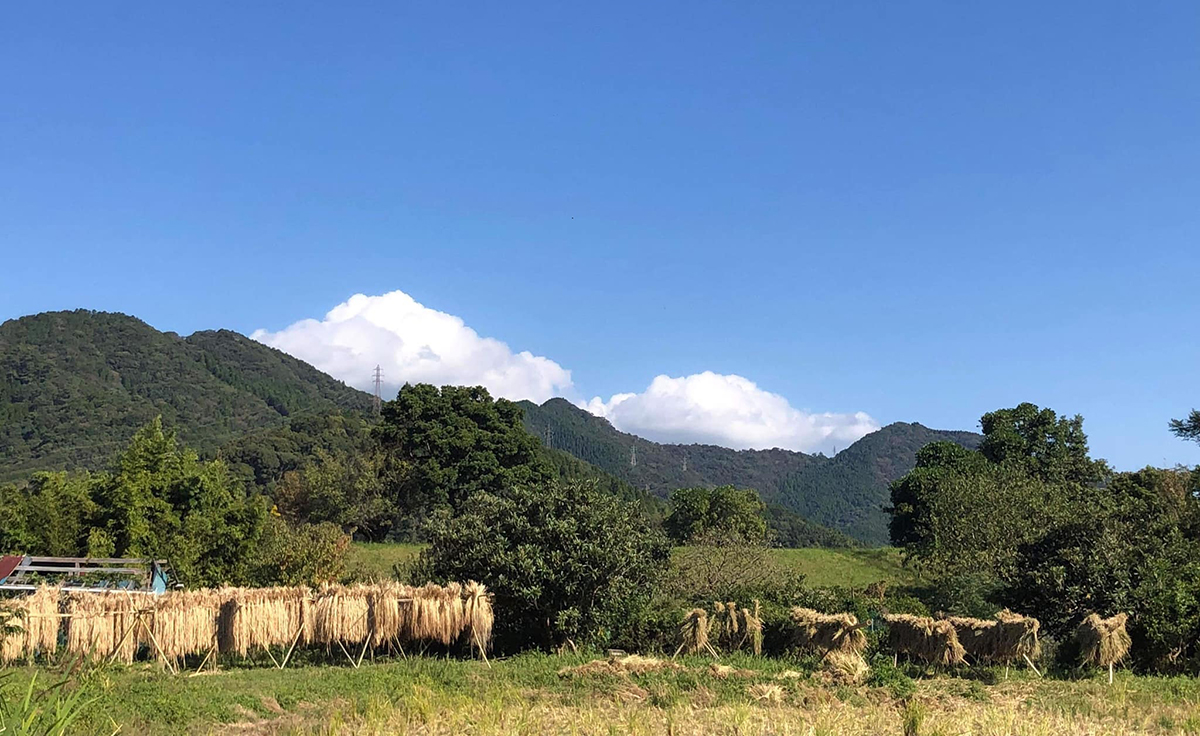
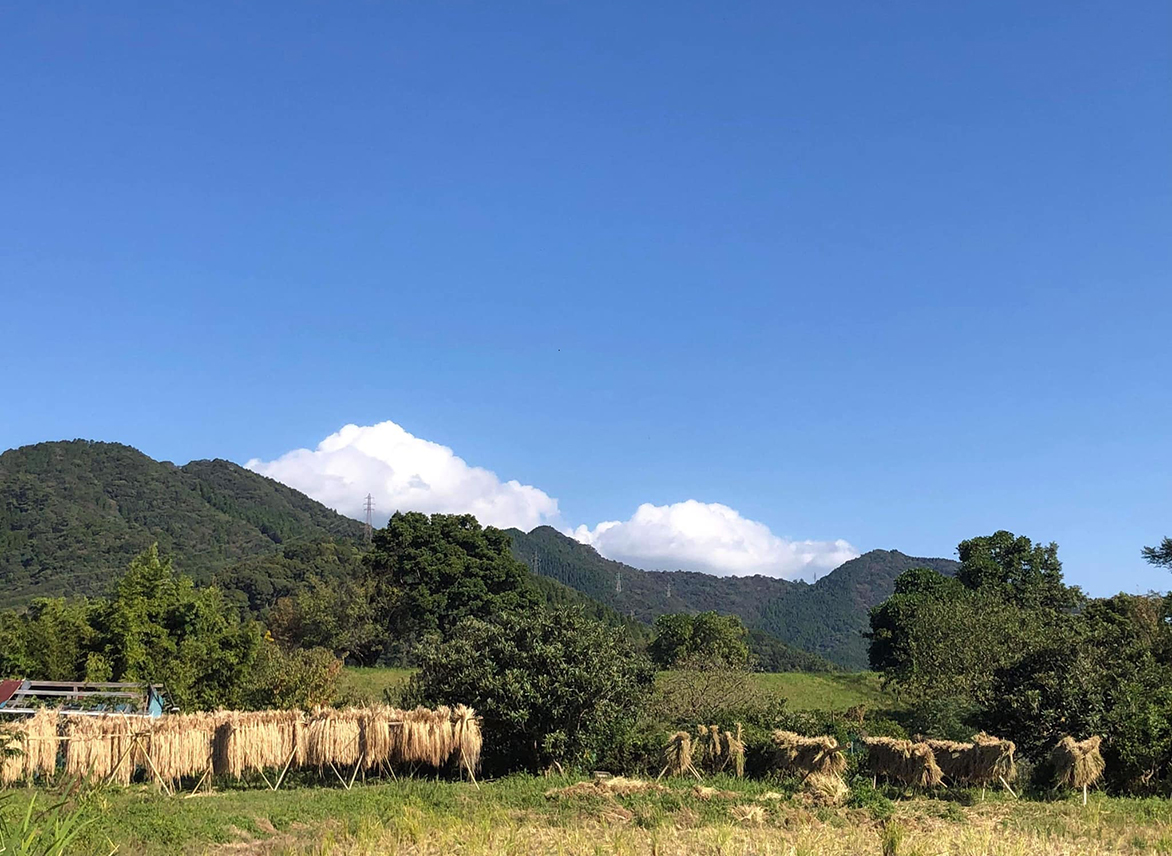
新嘗祭コンテンツ修正

diff --git a/index.html b/index.html
@@ -362,16 +362,16 @@
   </a>
 </div>
 </div>
-   <!-- 新嘗祭2：画像を枠いっぱいに（比率固定） -->
-<div class="bg-white shadow rounded-lg overflow-hidden" style="aspect-ratio: 16/10;">
+
+<!-- 写真ボックス1 -->
+<div class="bg-white shadow rounded-lg overflow-hidden min-h-[16rem] md:min-h-0 md:h-full">
   <img src="img/kome1.jpg" alt="新嘗祭の様子" class="w-full h-full object-cover">
 </div>
 
-<!-- 新嘗祭3：画像を枠いっぱいに（比率固定） -->
-<div class="bg-white shadow rounded-lg overflow-hidden" style="aspect-ratio: 16/10;">
+<!-- 写真ボックス2 -->
+<div class="bg-white shadow rounded-lg overflow-hidden min-h-[16rem] md:min-h-0 md:h-full">
   <img src="img/kome2.jpg" alt="新嘗祭の様子" class="w-full h-full object-cover">
 </div>
-
   </div>
 </section>
 
